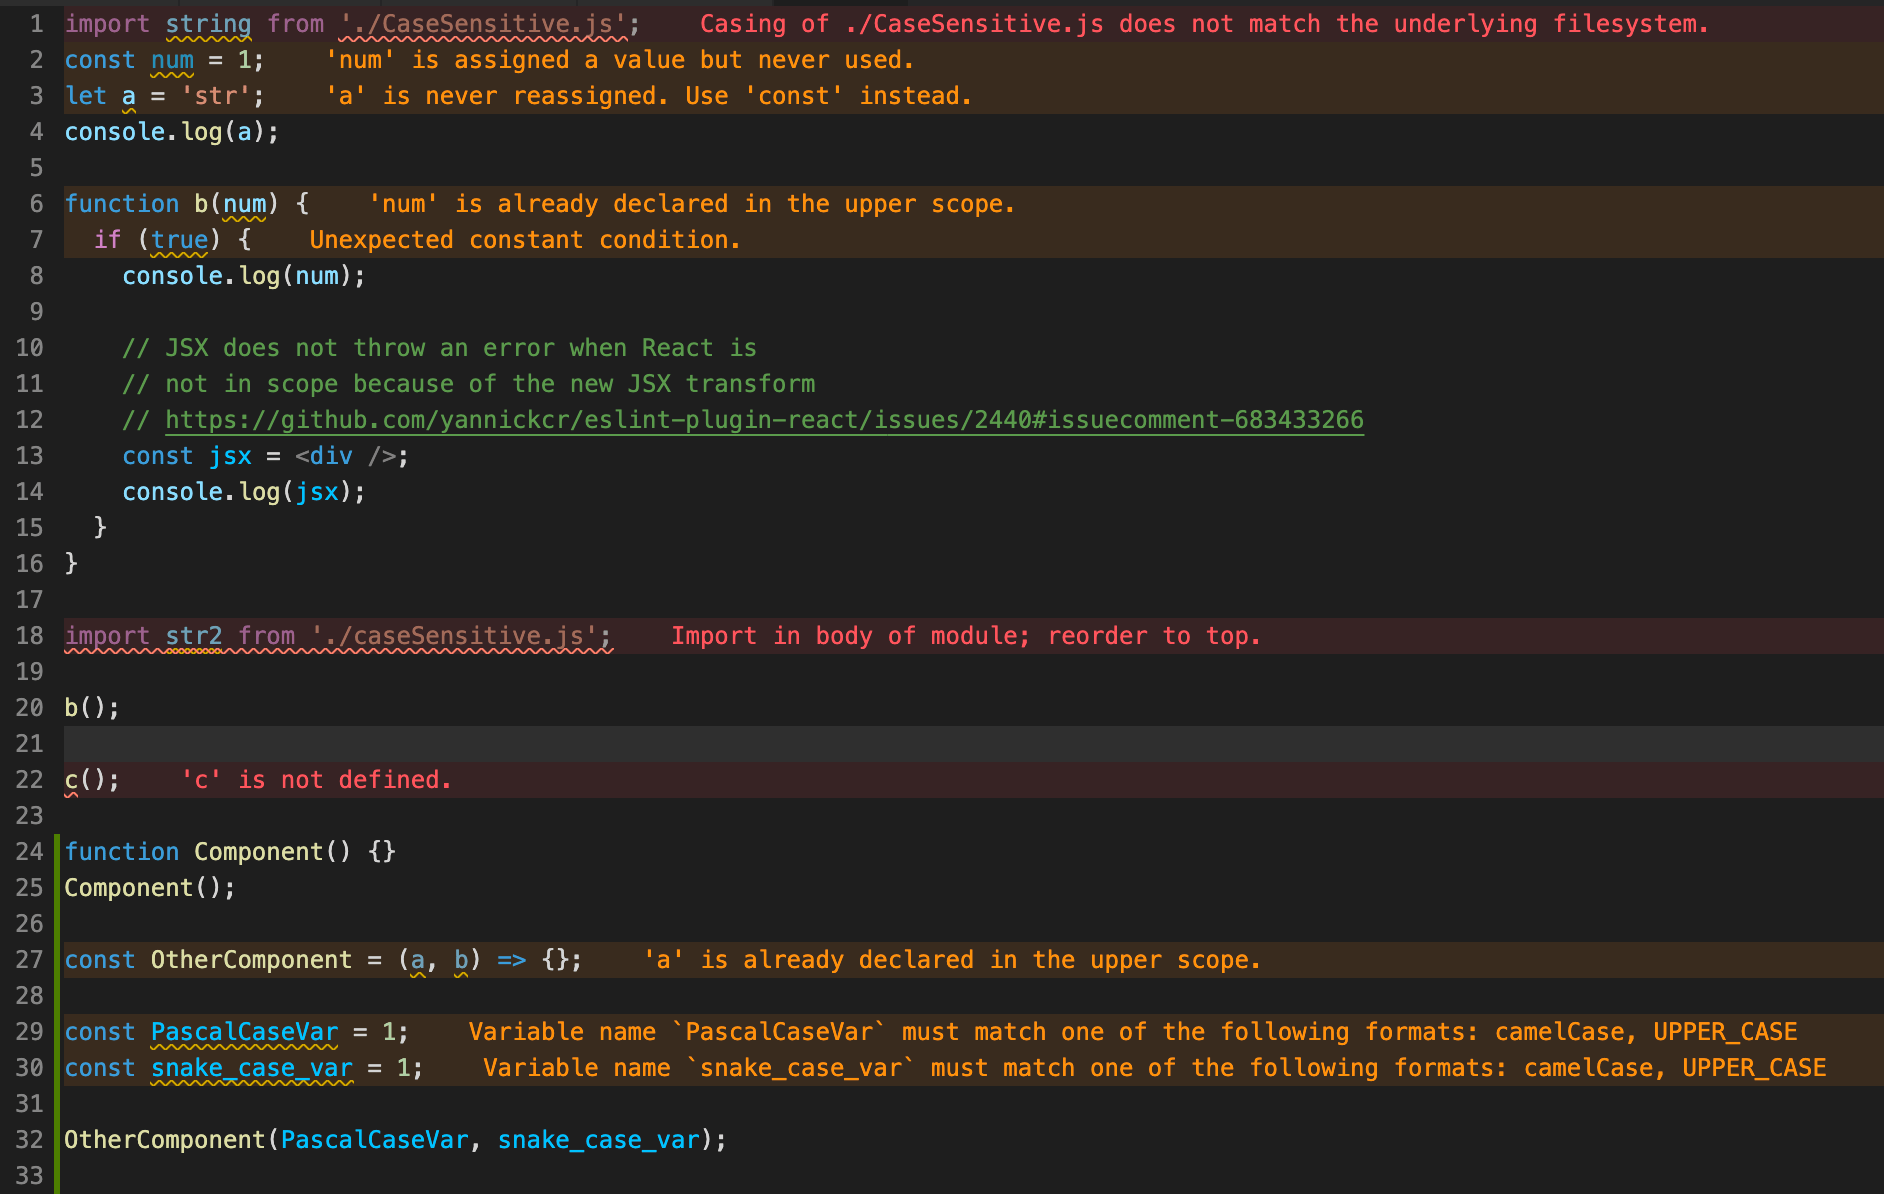
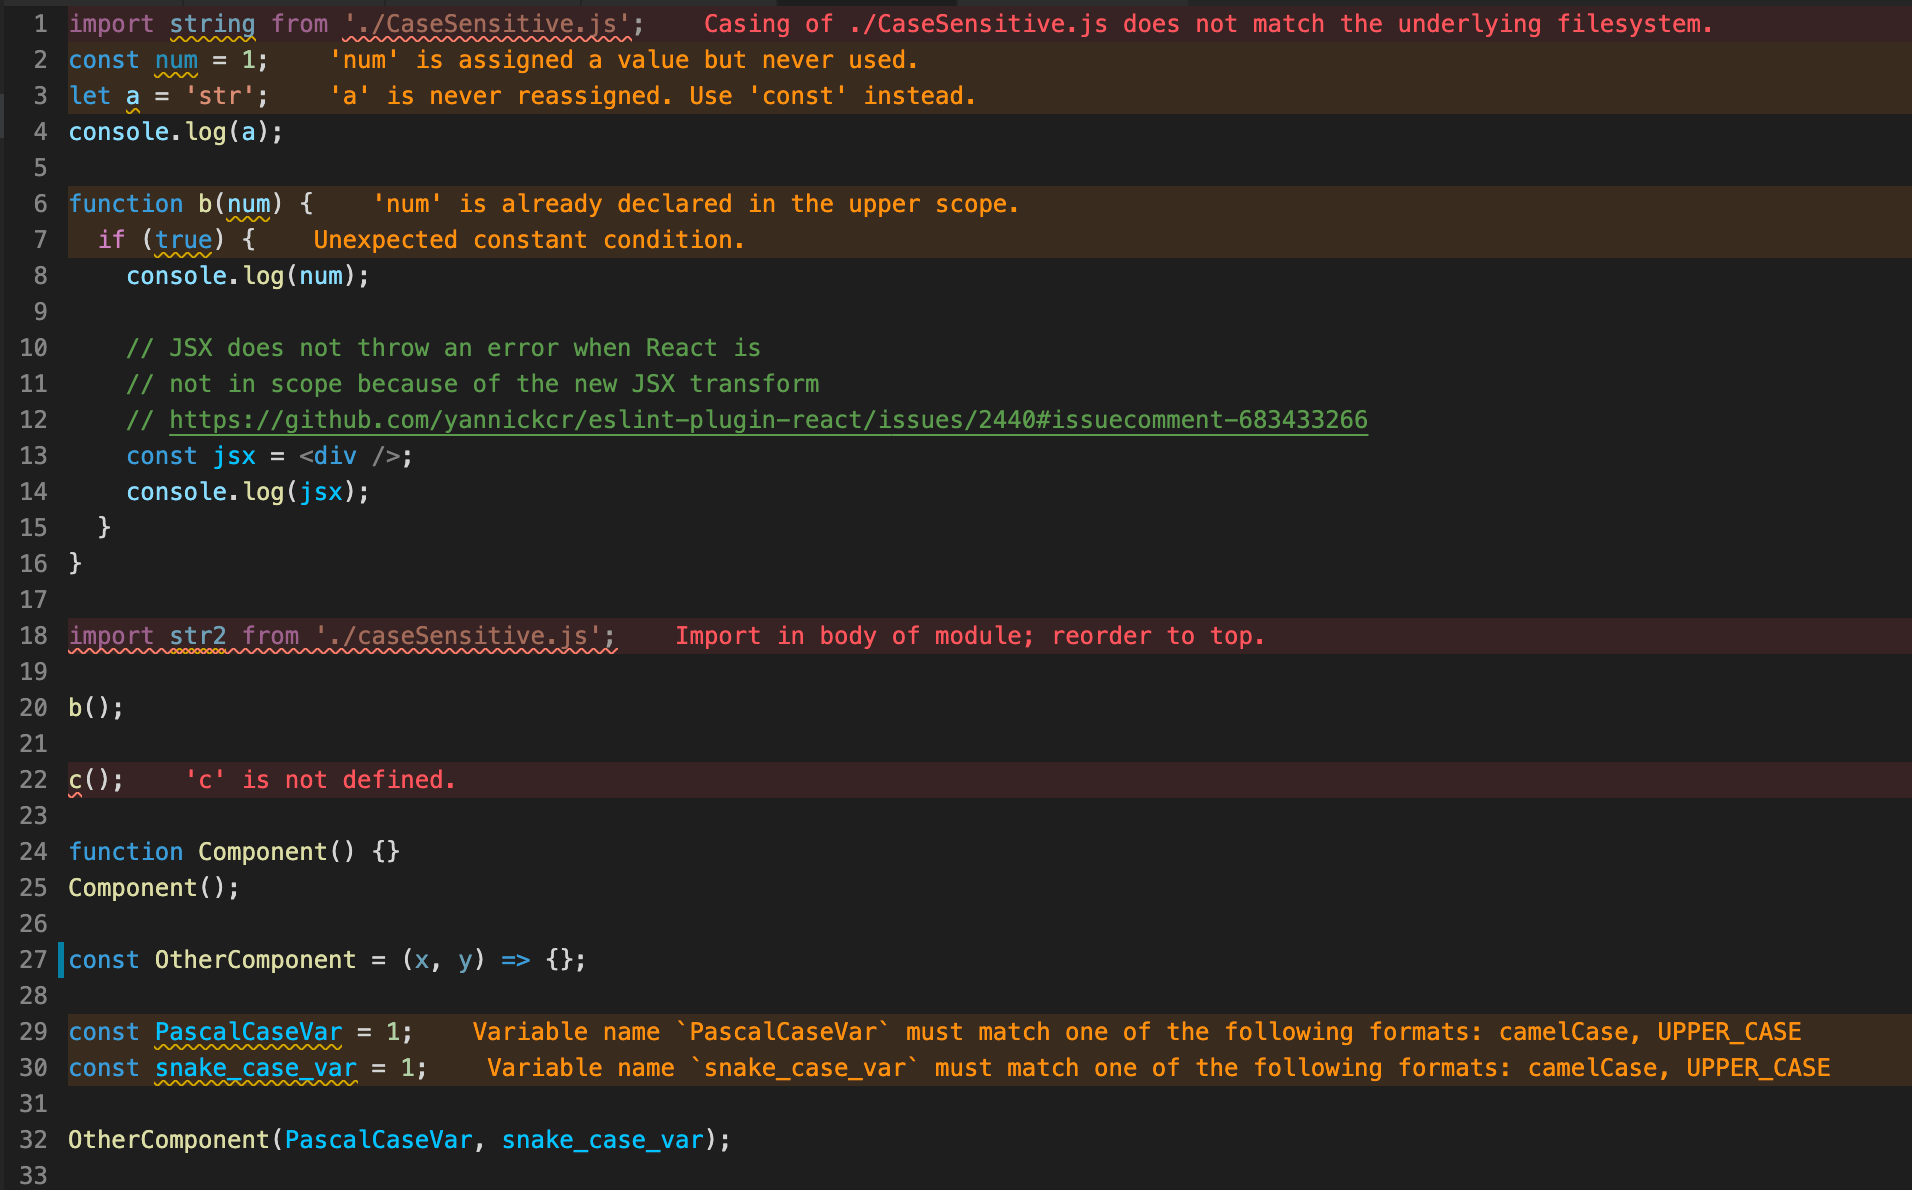
Remove warnings

diff --git a/__tests__/index.js b/__tests__/index.js
@@ -24,7 +24,7 @@ c();
 function Component() {}
 Component();
 
-const OtherComponent = (a, b) => {};
+const OtherComponent = (x, y) => {};
 
 const PascalCaseVar = 1;
 const snake_case_var = 1;
